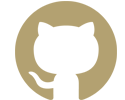
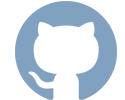
update colors

diff --git a/css/style.css b/css/style.css
@@ -3,8 +3,8 @@ img {
   width: 200px;
 }
 body {
-color: #bcbcbc;
-background-color: #191919;
+color: #e5e9f0;
+background-color: #2e3440;
   font-family: Hack, monospace;
 }
 .tg {
@@ -22,5 +22,5 @@ background-color: #191919;
   text-align: center;
 }
 a {
-  color: #191919;
+  color: #2e3440;
 }
